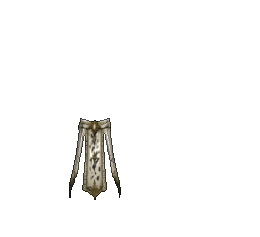
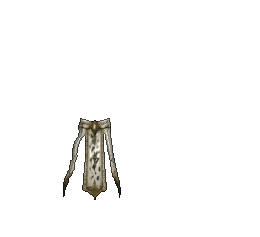
UOModel3D: paperdoll gumps of the Radiant Star Girdle: the left side panel follows the leg of the drawn body (uo_gump_cover_legs.py: up to 7 px male, 10 px female)
Claude-Session: https://claude.ai/code/session_01JnhBvoucWVkyMyk3fH22Ap

Changed region(s): [[0.2154, 0.5612, 0.3385, 0.827]]

diff --git a/pipeline/uo_gump_cover_legs.py b/pipeline/uo_gump_cover_legs.py
@@ -1,0 +1,78 @@
+"""Paperdoll gump: the side panels follow the legs of the drawn body (a leg must not stick out beside the panel).
+
+    python uo_gump_cover_legs.py RAW_DIR [--margin 1] [--side left|right|both]
+
+RAW_DIR = the output of uo_render_paperdoll.py (gump_male_raw.npy, gump_female_raw.npy); the body gumps are docs/paperdoll/paperdoll_male_0xc.png / female_0xd.png. The skirt of the 3D model hangs
+straight down, the drawn bodies stand with the legs apart (the left leg of the body gump 12 goes 15 px outwards over the height of the skirt), so below the hip the leg comes out beside the
+outer panel. Per row: the leg's outer edge is the outermost pixel of the body gump, the panel's the outermost pixel of the item; where the leg is further out, the panel (the outermost run of item
+pixels, when it is separate from the rest) is moved outwards by the difference + margin px, smoothed along y and eased in over the first rows, so it hangs along the leg. Only the left side is
+moved by default (the right leg is inside its panel in both gumps); `--side both` moves the right one too where needed. Overwrites the raw files, prints the largest shift per gump.
+"""
+import argparse, os
+import numpy as np
+from PIL import Image
+from scipy import ndimage
+
+BODIES = {"male": "paperdoll_male_0xc.png", "female": "paperdoll_female_0xd.png"}
+DOCS = os.path.join(os.path.dirname(os.path.abspath(__file__)), "..", "docs", "paperdoll")
+
+
+def runs(row):
+    r, s = [], None
+    for x, v in enumerate(row):
+        if v and s is None:
+            s = x
+        if not v and s is not None:
+            r.append((s, x)); s = None
+    if s is not None:
+        r.append((s, len(row)))
+    return r
+
+
+def cover(raw, body, margin, side, y_leg=135, max_run=24):
+    a = raw[..., 3] > 0.5; B = body[..., 3] > 0
+    H, W = a.shape
+    ys = np.nonzero(a.any(1))[0]
+    sign = -1 if side == "left" else 1
+    d = np.zeros(H)
+    for y in range(max(ys.min(), y_leg), ys.max() + 1):
+        ix = np.nonzero(a[y])[0]; bx = np.nonzero(B[y])[0]
+        if not len(ix) or not len(bx):
+            continue
+        d[y] = max(0.0, (ix.min() - bx.min() + margin) if side == "left" else (bx.max() - ix.max() + margin))
+    d = ndimage.gaussian_filter1d(d, 2.0)
+    d *= np.clip((np.arange(H) - y_leg) / 6.0, 0, 1)                     # eased in below the hip
+    out = raw.copy(); moved = 0
+    for y in range(H):
+        sh = int(round(d[y]))
+        if sh <= 0 or not a[y].any():
+            continue
+        rs = runs(a[y])
+        if len(rs) < 2:
+            continue
+        s, e = rs[0] if side == "left" else rs[-1]
+        if e - s > max_run:
+            continue
+        seg = raw[y, s:e].copy()
+        out[y, s:e] = 0                                                    # the old place of the panel is empty (the body shows)
+        ns = s + sign * sh
+        if 0 <= ns and ns + (e - s) <= W:
+            out[y, ns:ns + (e - s)] = np.where(seg[..., 3:4] > 0.5, seg, out[y, ns:ns + (e - s)])
+            moved = max(moved, sh)
+    return out, moved, d.max()
+
+
+def main():
+    ap = argparse.ArgumentParser(); ap.add_argument("raw"); ap.add_argument("--margin", type=float, default=1.0); ap.add_argument("--side", default="left")
+    a = ap.parse_args()
+    for g, f in BODIES.items():
+        body = np.array(Image.open(os.path.join(DOCS, f)).convert("RGBA"))
+        raw = np.load(os.path.join(a.raw, "gump_%s_raw.npy" % g))
+        for side in (["left", "right"] if a.side == "both" else [a.side]):
+            raw, moved, dmax = cover(raw, body, a.margin, side)
+            print("%s %s: the panel moved outwards by up to %d px (the leg stuck out by %.1f px)" % (g, side, moved, dmax))
+        np.save(os.path.join(a.raw, "gump_%s_raw.npy" % g), raw)
+
+
+if __name__ == "__main__":
+    main()

diff --git a/model/items/radiant_star_girdle/README.md b/model/items/radiant_star_girdle/README.md
@@ -50,3 +50,7 @@ In the run the thigh of the real body stood out of the capsule that `uo_cloth_pb
 ### Gumps and icon of the lower version from the filled, narrowed model (`paperdoll_low/`, replaces the first ones)
 
 `gump_male.png` / `gump_female.png` (260 x 237), `art.png` and `art_mirror.png` (44 x 44) with their `.bin` entries (`Gumpart.mul`, `art.mul`), `levels.json`. Gumps: `uo_render_paperdoll.py` on `run8/item.blend` (band fitted to the underwear of each body gump) then `uo_gump_finish.py`. The icon is no longer a separate 3D view: `uo_art_from_gump.py` takes the front view of the item (`item_hi.npy`, saved by `uo_render_paperdoll.py`), turns it by 45 degrees in its plane and reduces it by x0.151 (area mean) into 44 x 44 px; the mirrored icon is the second `.bin`. Decoded back with `uo_gump_art.py`: alpha identical, colours within the 5-bit rounding.
+
+#### The left panel covers the leg on the paperdoll (`pipeline/uo_gump_cover_legs.py`)
+
+The skirt hangs straight, the drawn body gumps stand with the legs apart: below the hip the left leg came out beside the outer panel (4-6 px in the male gump, 2-5 px in the female one, measured per row as the outermost pixel of the body gump against that of the item). `uo_gump_cover_legs.py` moves the outermost run of item pixels of each row outwards by that difference + 1 px (smoothed along y, eased in below row 135): up to 7 px (male) and 10 px (female); the right leg is inside its panel in both. Run between `uo_render_paperdoll.py` and `uo_gump_finish.py`; the icon is not affected.
